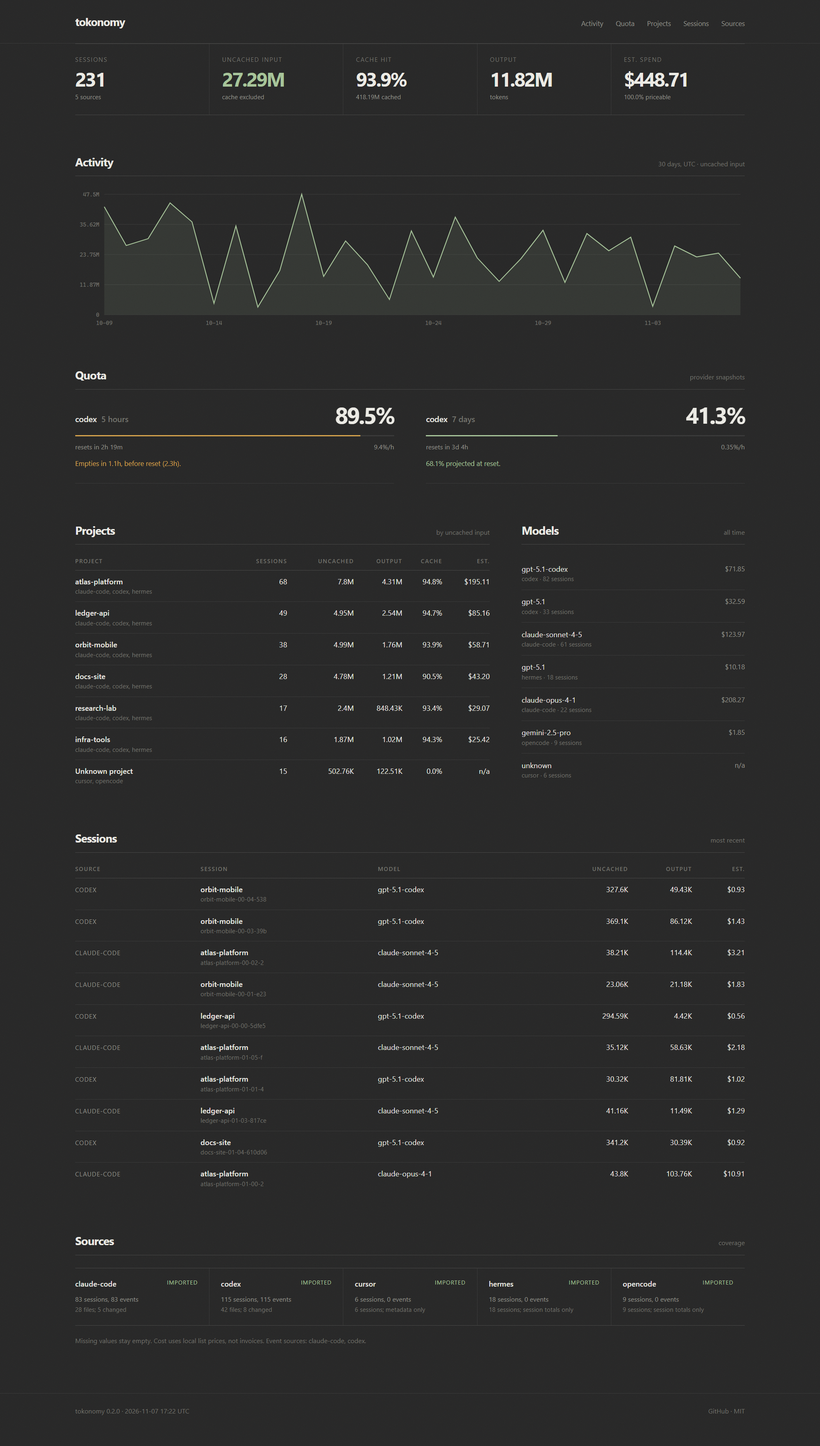
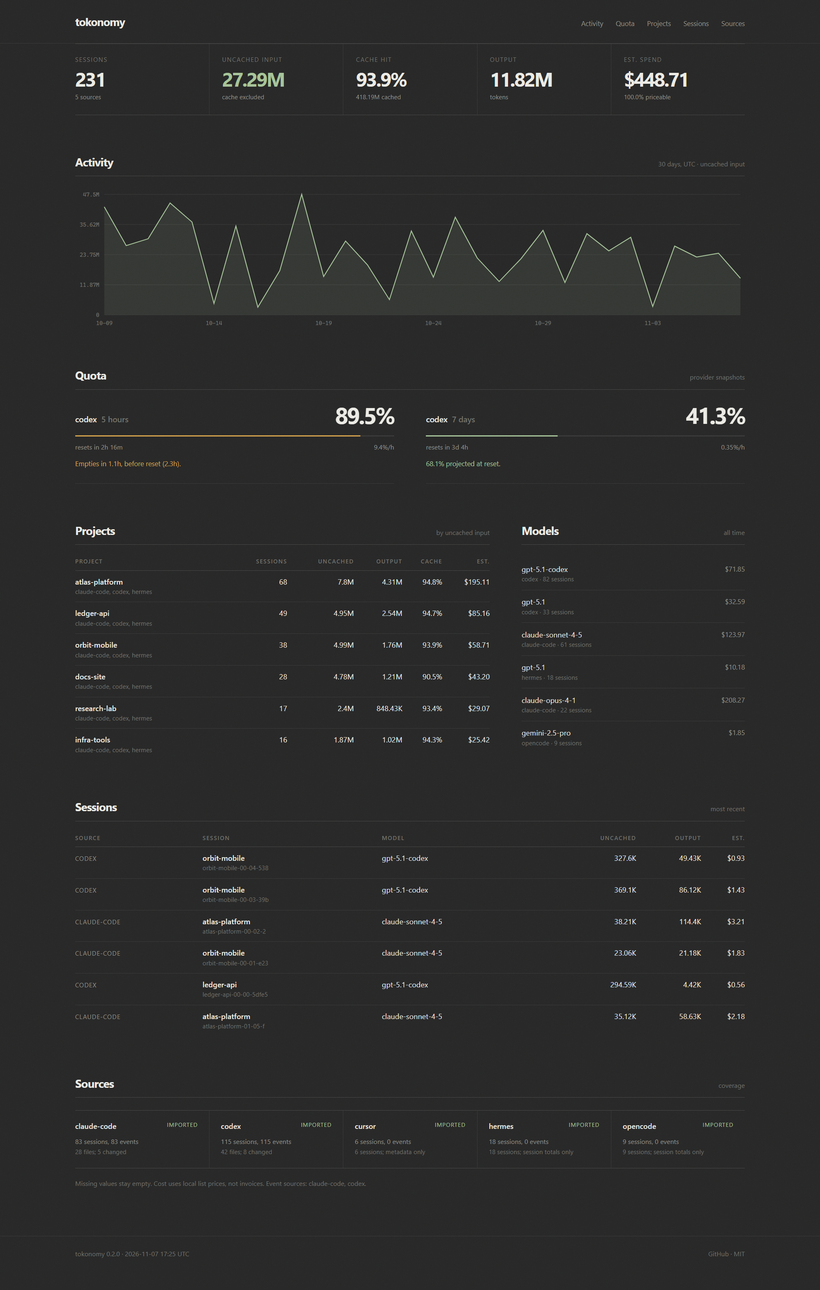
Trim dashboard to six rows per table

diff --git a/docs/dashboard.html b/docs/dashboard.html
@@ -163,7 +163,7 @@ footer { margin-top: 84px; border-top: 1px solid var(--line-soft); padding: 22px
     <b>89.5%</b>
   </div>
   <div class="bar"><i class="warn" style="width:89.5%"></i></div>
-  <div class="quota-meta"><span>resets in 2h 19m</span><span>9.4%/h</span></div>
+  <div class="quota-meta"><span>resets in 2h 16m</span><span>9.4%/h</span></div>
   <p class="warn">Empties in 1.1h, before reset (2.3h).</p>
 </div>
 <div class="quota">
@@ -181,18 +181,18 @@ footer { margin-top: 84px; border-top: 1px solid var(--line-soft); padding: 22px
     <div>
       <div class="sechead"><h2>Projects</h2><span>by uncached input</span></div>
       <table><thead><tr><th>Project</th><th class="num">Sessions</th><th class="num">Uncached</th><th class="num">Output</th><th class="num">Cache</th><th class="num">Est.</th></tr></thead>
-      <tbody><tr><td><div class="name">atlas-platform</div><div class="sub">claude-code, codex, hermes</div></td><td class="num">68</td><td class="num">7.8M</td><td class="num">4.31M</td><td class="num">94.8%</td><td class="num">$195.11</td></tr><tr><td><div class="name">ledger-api</div><div class="sub">claude-code, codex, hermes</div></td><td class="num">49</td><td class="num">4.95M</td><td class="num">2.54M</td><td class="num">94.7%</td><td class="num">$85.16</td></tr><tr><td><div class="name">orbit-mobile</div><div class="sub">claude-code, codex, hermes</div></td><td class="num">38</td><td class="num">4.99M</td><td class="num">1.76M</td><td class="num">93.9%</td><td class="num">$58.71</td></tr><tr><td><div class="name">docs-site</div><div class="sub">claude-code, codex, hermes</div></td><td class="num">28</td><td class="num">4.78M</td><td class="num">1.21M</td><td class="num">90.5%</td><td class="num">$43.20</td></tr><tr><td><div class="name">research-lab</div><div class="sub">claude-code, codex, hermes</div></td><td class="num">17</td><td class="num">2.4M</td><td class="num">848.43K</td><td class="num">93.4%</td><td class="num">$29.07</td></tr><tr><td><div class="name">infra-tools</div><div class="sub">claude-code, codex, hermes</div></td><td class="num">16</td><td class="num">1.87M</td><td class="num">1.02M</td><td class="num">94.3%</td><td class="num">$25.42</td></tr><tr><td><div class="name">Unknown project</div><div class="sub">cursor, opencode</div></td><td class="num">15</td><td class="num">502.76K</td><td class="num">122.51K</td><td class="num">0.0%</td><td class="num">n/a</td></tr></tbody></table>
+      <tbody><tr><td><div class="name">atlas-platform</div><div class="sub">claude-code, codex, hermes</div></td><td class="num">68</td><td class="num">7.8M</td><td class="num">4.31M</td><td class="num">94.8%</td><td class="num">$195.11</td></tr><tr><td><div class="name">ledger-api</div><div class="sub">claude-code, codex, hermes</div></td><td class="num">49</td><td class="num">4.95M</td><td class="num">2.54M</td><td class="num">94.7%</td><td class="num">$85.16</td></tr><tr><td><div class="name">orbit-mobile</div><div class="sub">claude-code, codex, hermes</div></td><td class="num">38</td><td class="num">4.99M</td><td class="num">1.76M</td><td class="num">93.9%</td><td class="num">$58.71</td></tr><tr><td><div class="name">docs-site</div><div class="sub">claude-code, codex, hermes</div></td><td class="num">28</td><td class="num">4.78M</td><td class="num">1.21M</td><td class="num">90.5%</td><td class="num">$43.20</td></tr><tr><td><div class="name">research-lab</div><div class="sub">claude-code, codex, hermes</div></td><td class="num">17</td><td class="num">2.4M</td><td class="num">848.43K</td><td class="num">93.4%</td><td class="num">$29.07</td></tr><tr><td><div class="name">infra-tools</div><div class="sub">claude-code, codex, hermes</div></td><td class="num">16</td><td class="num">1.87M</td><td class="num">1.02M</td><td class="num">94.3%</td><td class="num">$25.42</td></tr></tbody></table>
     </div>
     <div>
       <div class="sechead"><h2>Models</h2><span>all time</span></div>
-      <div class="models"><div class="model"><div class="m">gpt-5.1-codex<div class="sub">codex · 82 sessions</div></div><div class="c">$71.85</div></div><div class="model"><div class="m">gpt-5.1<div class="sub">codex · 33 sessions</div></div><div class="c">$32.59</div></div><div class="model"><div class="m">claude-sonnet-4-5<div class="sub">claude-code · 61 sessions</div></div><div class="c">$123.97</div></div><div class="model"><div class="m">gpt-5.1<div class="sub">hermes · 18 sessions</div></div><div class="c">$10.18</div></div><div class="model"><div class="m">claude-opus-4-1<div class="sub">claude-code · 22 sessions</div></div><div class="c">$208.27</div></div><div class="model"><div class="m">gemini-2.5-pro<div class="sub">opencode · 9 sessions</div></div><div class="c">$1.85</div></div><div class="model"><div class="m">unknown<div class="sub">cursor · 6 sessions</div></div><div class="c">n/a</div></div></div>
+      <div class="models"><div class="model"><div class="m">gpt-5.1-codex<div class="sub">codex · 82 sessions</div></div><div class="c">$71.85</div></div><div class="model"><div class="m">gpt-5.1<div class="sub">codex · 33 sessions</div></div><div class="c">$32.59</div></div><div class="model"><div class="m">claude-sonnet-4-5<div class="sub">claude-code · 61 sessions</div></div><div class="c">$123.97</div></div><div class="model"><div class="m">gpt-5.1<div class="sub">hermes · 18 sessions</div></div><div class="c">$10.18</div></div><div class="model"><div class="m">claude-opus-4-1<div class="sub">claude-code · 22 sessions</div></div><div class="c">$208.27</div></div><div class="model"><div class="m">gemini-2.5-pro<div class="sub">opencode · 9 sessions</div></div><div class="c">$1.85</div></div></div>
     </div>
   </section>
 
   <section id="sessions">
     <div class="sechead"><h2>Sessions</h2><span>most recent</span></div>
     <table><thead><tr><th>Source</th><th>Session</th><th>Model</th><th class="num">Uncached</th><th class="num">Output</th><th class="num">Est.</th></tr></thead>
-    <tbody><tr><td class="src">codex</td><td><div class="name">orbit-mobile</div><div class="sub">orbit-mobile-00-04-538</div></td><td>gpt-5.1-codex</td><td class="num">327.6K</td><td class="num">49.43K</td><td class="num">$0.93</td></tr><tr><td class="src">codex</td><td><div class="name">orbit-mobile</div><div class="sub">orbit-mobile-00-03-39b</div></td><td>gpt-5.1-codex</td><td class="num">369.1K</td><td class="num">86.12K</td><td class="num">$1.43</td></tr><tr><td class="src">claude-code</td><td><div class="name">atlas-platform</div><div class="sub">atlas-platform-00-02-2</div></td><td>claude-sonnet-4-5</td><td class="num">38.21K</td><td class="num">114.4K</td><td class="num">$3.21</td></tr><tr><td class="src">claude-code</td><td><div class="name">orbit-mobile</div><div class="sub">orbit-mobile-00-01-e23</div></td><td>claude-sonnet-4-5</td><td class="num">23.06K</td><td class="num">21.18K</td><td class="num">$1.83</td></tr><tr><td class="src">codex</td><td><div class="name">ledger-api</div><div class="sub">ledger-api-00-00-5dfe5</div></td><td>gpt-5.1-codex</td><td class="num">294.59K</td><td class="num">4.42K</td><td class="num">$0.56</td></tr><tr><td class="src">claude-code</td><td><div class="name">atlas-platform</div><div class="sub">atlas-platform-01-05-f</div></td><td>claude-sonnet-4-5</td><td class="num">35.12K</td><td class="num">58.63K</td><td class="num">$2.18</td></tr><tr><td class="src">codex</td><td><div class="name">atlas-platform</div><div class="sub">atlas-platform-01-01-4</div></td><td>gpt-5.1-codex</td><td class="num">30.32K</td><td class="num">81.81K</td><td class="num">$1.02</td></tr><tr><td class="src">claude-code</td><td><div class="name">ledger-api</div><div class="sub">ledger-api-01-03-817ce</div></td><td>claude-sonnet-4-5</td><td class="num">41.16K</td><td class="num">11.49K</td><td class="num">$1.29</td></tr><tr><td class="src">codex</td><td><div class="name">docs-site</div><div class="sub">docs-site-01-04-610d06</div></td><td>gpt-5.1-codex</td><td class="num">341.2K</td><td class="num">30.39K</td><td class="num">$0.92</td></tr><tr><td class="src">claude-code</td><td><div class="name">atlas-platform</div><div class="sub">atlas-platform-01-00-2</div></td><td>claude-opus-4-1</td><td class="num">43.8K</td><td class="num">103.76K</td><td class="num">$10.91</td></tr></tbody></table>
+    <tbody><tr><td class="src">codex</td><td><div class="name">orbit-mobile</div><div class="sub">orbit-mobile-00-04-538</div></td><td>gpt-5.1-codex</td><td class="num">327.6K</td><td class="num">49.43K</td><td class="num">$0.93</td></tr><tr><td class="src">codex</td><td><div class="name">orbit-mobile</div><div class="sub">orbit-mobile-00-03-39b</div></td><td>gpt-5.1-codex</td><td class="num">369.1K</td><td class="num">86.12K</td><td class="num">$1.43</td></tr><tr><td class="src">claude-code</td><td><div class="name">atlas-platform</div><div class="sub">atlas-platform-00-02-2</div></td><td>claude-sonnet-4-5</td><td class="num">38.21K</td><td class="num">114.4K</td><td class="num">$3.21</td></tr><tr><td class="src">claude-code</td><td><div class="name">orbit-mobile</div><div class="sub">orbit-mobile-00-01-e23</div></td><td>claude-sonnet-4-5</td><td class="num">23.06K</td><td class="num">21.18K</td><td class="num">$1.83</td></tr><tr><td class="src">codex</td><td><div class="name">ledger-api</div><div class="sub">ledger-api-00-00-5dfe5</div></td><td>gpt-5.1-codex</td><td class="num">294.59K</td><td class="num">4.42K</td><td class="num">$0.56</td></tr><tr><td class="src">claude-code</td><td><div class="name">atlas-platform</div><div class="sub">atlas-platform-01-05-f</div></td><td>claude-sonnet-4-5</td><td class="num">35.12K</td><td class="num">58.63K</td><td class="num">$2.18</td></tr></tbody></table>
   </section>
 
   <section id="sources">
@@ -202,7 +202,7 @@ footer { margin-top: 84px; border-top: 1px solid var(--line-soft); padding: 22px
   </section>
 </main>
 <footer><div class="wrap foot">
-  <span>tokonomy 0.2.0 · 2026-11-07 17:22 UTC</span>
+  <span>tokonomy 0.2.0 · 2026-11-07 17:25 UTC</span>
   <span><a href="https://github.com/cenkergultekin/tokonomy">GitHub</a> · MIT</span>
 </div></footer>
 </body>

diff --git a/src/tokonomy/web.py b/src/tokonomy/web.py
@@ -1,4 +1,4 @@
-"""Localhost dashboard and static HTML export.
+"""Localhost dashboard and static HTML export.
 
 The page is a data view, not a landing page: flat charcoal, one accent, no
 cards, no gradients, no marketing copy. Every number carries its source.
@@ -244,7 +244,7 @@ def _projects(projects: list[dict]) -> str:
     if not projects:
         return '<tr><td colspan="6" class="empty">No project attribution.</td></tr>'
     rows = []
-    for item in projects[:10]:
+    for item in projects[:6]:
         rows.append(
             "<tr>"
             f'<td><div class="name">{_esc(item["project"])}</div><div class="sub">{_esc(", ".join(item["sources"]))}</div></td>'
@@ -259,10 +259,11 @@ def _projects(projects: list[dict]) -> str:
 
 
 def _models(models: list[dict]) -> str:
+    models = [item for item in models if (item["uncached"] or 0) + (item["output"] or 0) > 0]
     if not models:
         return '<div class="empty">No model usage.</div>'
     rows = []
-    for item in models[:8]:
+    for item in models[:6]:
         rows.append(
             f'<div class="model"><div class="m">{_esc(item["model"])}<div class="sub">{_esc(item["source"])} · {item["sessions"]:,} sessions</div></div>'
             f'<div class="c">{_esc(money(item["cost"]))}</div></div>'
@@ -274,7 +275,7 @@ def _sessions(sessions: list[dict]) -> str:
     if not sessions:
         return '<tr><td colspan="6" class="empty">No sessions.</td></tr>'
     rows = []
-    for item in sessions[:10]:
+    for item in sessions[:6]:
         rows.append(
             "<tr>"
             f'<td class="src">{_esc(item["source"])}</td>'
@@ -307,9 +308,9 @@ def render_dashboard(store, generated_at: datetime | None = None) -> str:
     data = metrics.summary(connection)
     days = metrics.daily(connection, 30)
     quotas = metrics.quota(connection)
-    projects = metrics.projects(connection, limit=10)
+    projects = metrics.projects(connection, limit=6)
     models = metrics.model_breakdown(connection)
-    sessions_list = metrics.recent_sessions(connection, limit=10)
+    sessions_list = metrics.recent_sessions(connection, limit=6)
     coverage = metrics.coverage(connection)
     quota_markup = "".join(_quota(item) for item in quotas) or '<div class="empty">No quota snapshots. Run tokonomy watch-limits.</div>'
     stamp = generated_at.strftime("%Y-%m-%d %H:%M UTC")

diff --git a/src/tokonomy/formatting.py b/src/tokonomy/formatting.py
@@ -1,4 +1,4 @@
-"""Human-friendly formatting shared by the CLI, TUI, web dashboard and MCP."""
+"""Human-friendly formatting shared by the CLI, TUI, web dashboard and MCP."""
 
 from __future__ import annotations
 
@@ -43,10 +43,10 @@ def pct(value: float | None, digits: int = 1) -> str:
 def project_name(path: str | None) -> str:
     """Readable project label for POSIX and Windows paths."""
     if not path:
-        return "Unknown project"
+        return "Unattributed"
     cleaned = path.replace("\\", "/").rstrip("/")
     if not cleaned:
-        return "Unknown project"
+        return "Unattributed"
     home = str(Path.home()).replace("\\", "/").rstrip("/").lower()
     lowered = cleaned.lower()
     if lowered == home or re_home(lowered):

diff --git a/scripts/make_assets.py b/scripts/make_assets.py
@@ -158,7 +158,7 @@ def main() -> int:
 
         dashboard_page = temp / "dashboard.html"
         dashboard_page.write_text(dashboard_markup(demo_dir), encoding="utf-8")
-        screenshot(browser, dashboard_page, DOCS / "dashboard.png", 1440, 2540, 1.4)
+        screenshot(browser, dashboard_page, DOCS / "dashboard.png", 1440, 2265, 1.4)
         (DOCS / "dashboard.html").write_text(dashboard_page.read_text(encoding="utf-8"), encoding="utf-8")
         print("wrote docs/dashboard.png and docs/dashboard.html")
     return 0
